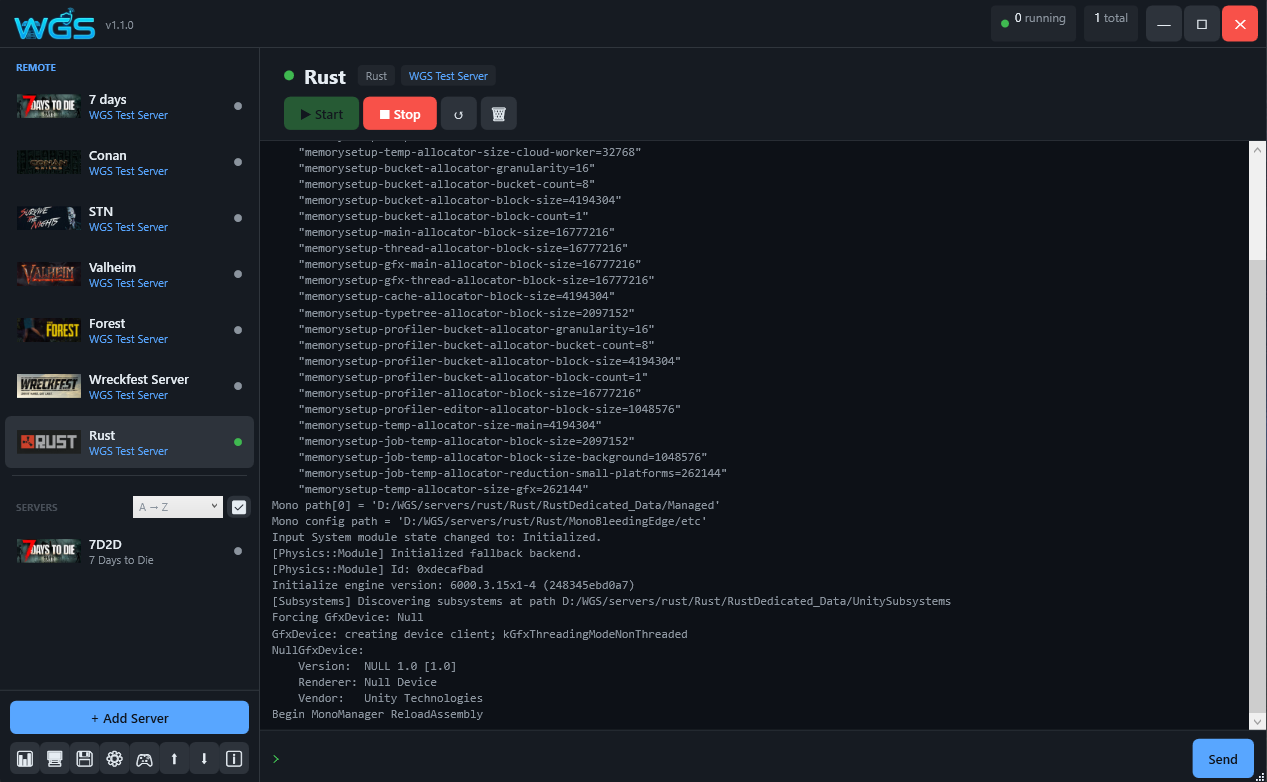
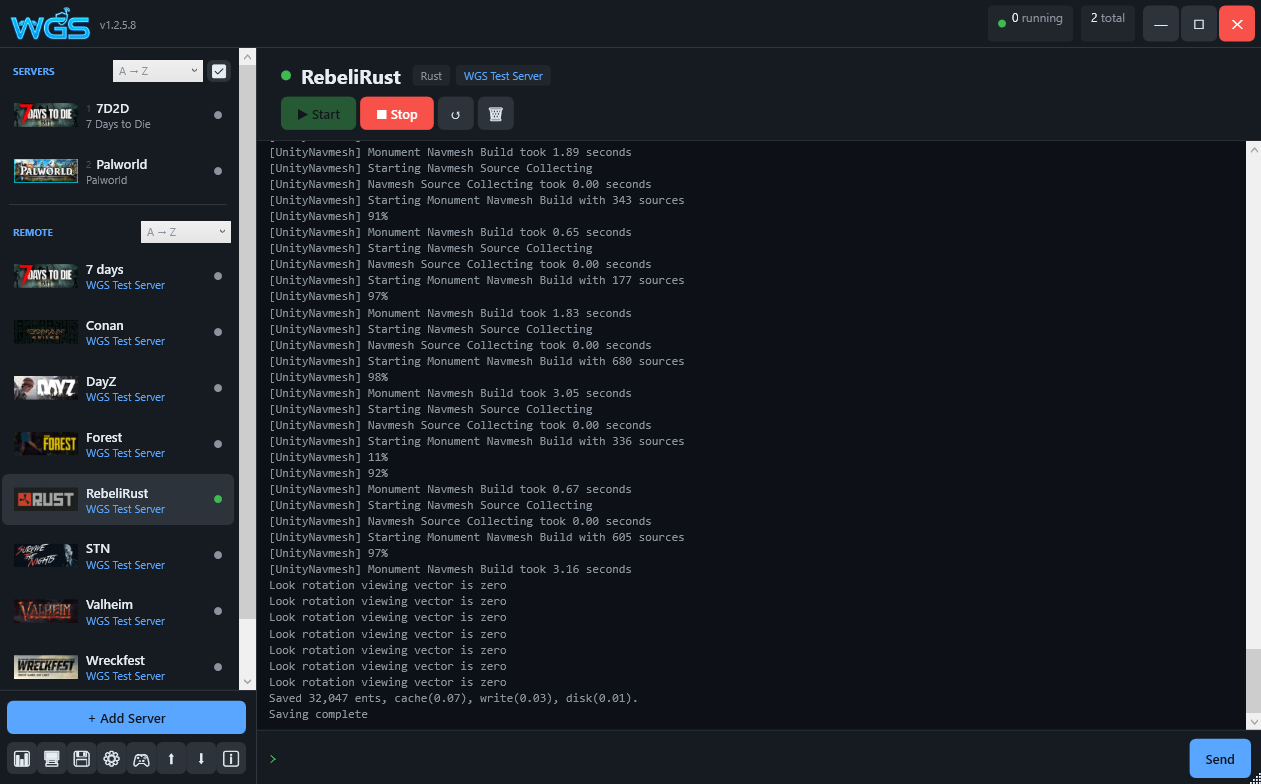
docs: bump version badge to 1.2.5.9, update README screenshot

diff --git a/README.md b/README.md
@@ -3,7 +3,7 @@
   <h1>Windows Game Server</h1>
   <p><strong>Single-window management panel for Windows game servers</strong></p>
 
-  ![Version](https://img.shields.io/badge/version-1.2.5.8-blue)
+  ![Version](https://img.shields.io/badge/version-1.2.5.9-blue)
   ![.NET](https://img.shields.io/badge/.NET-8.0-512BD4?logo=dotnet)
   ![Platform](https://img.shields.io/badge/platform-Windows-0078D4?logo=windows)
   ![License](https://img.shields.io/badge/license-MIT-green)